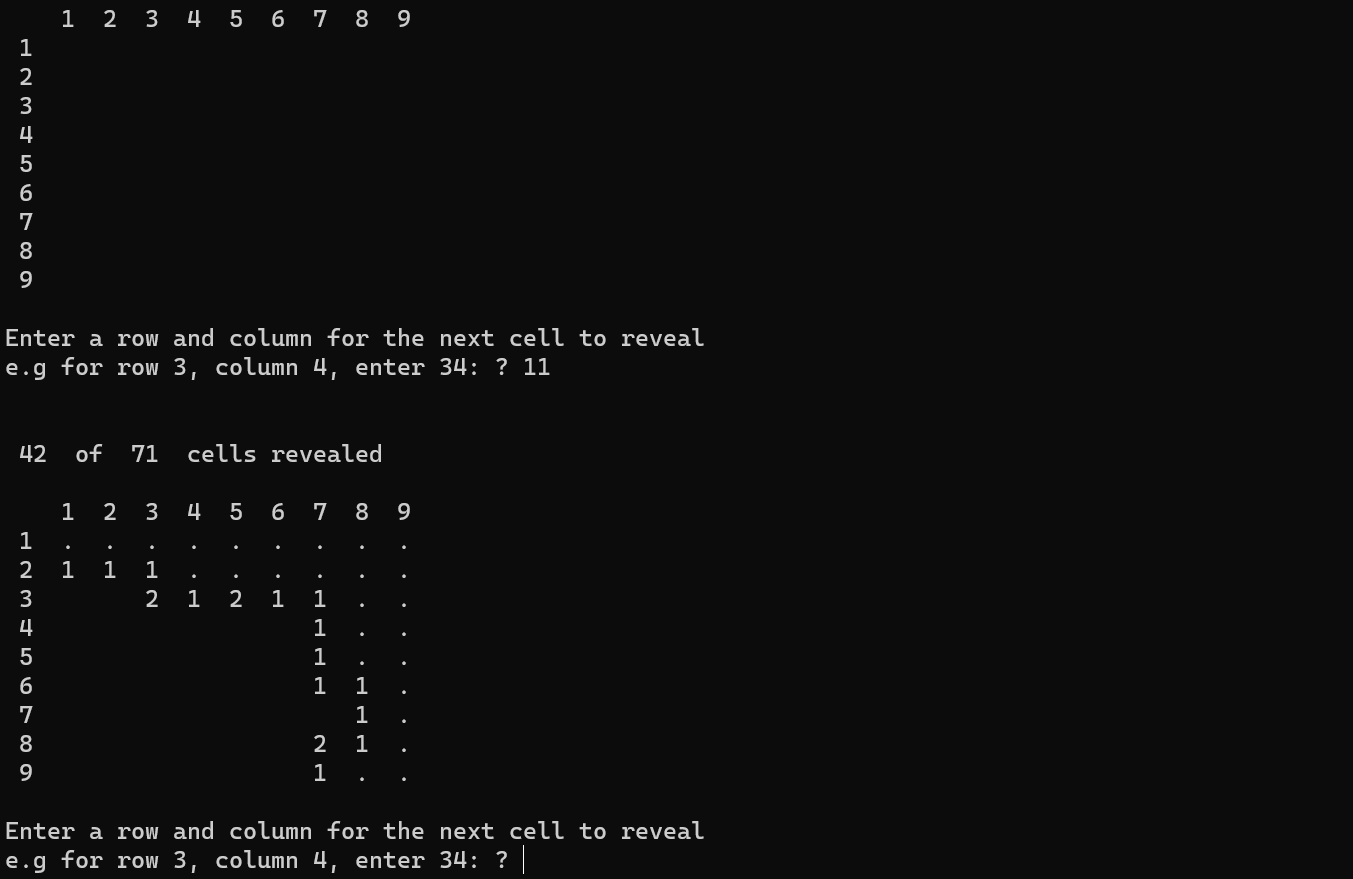
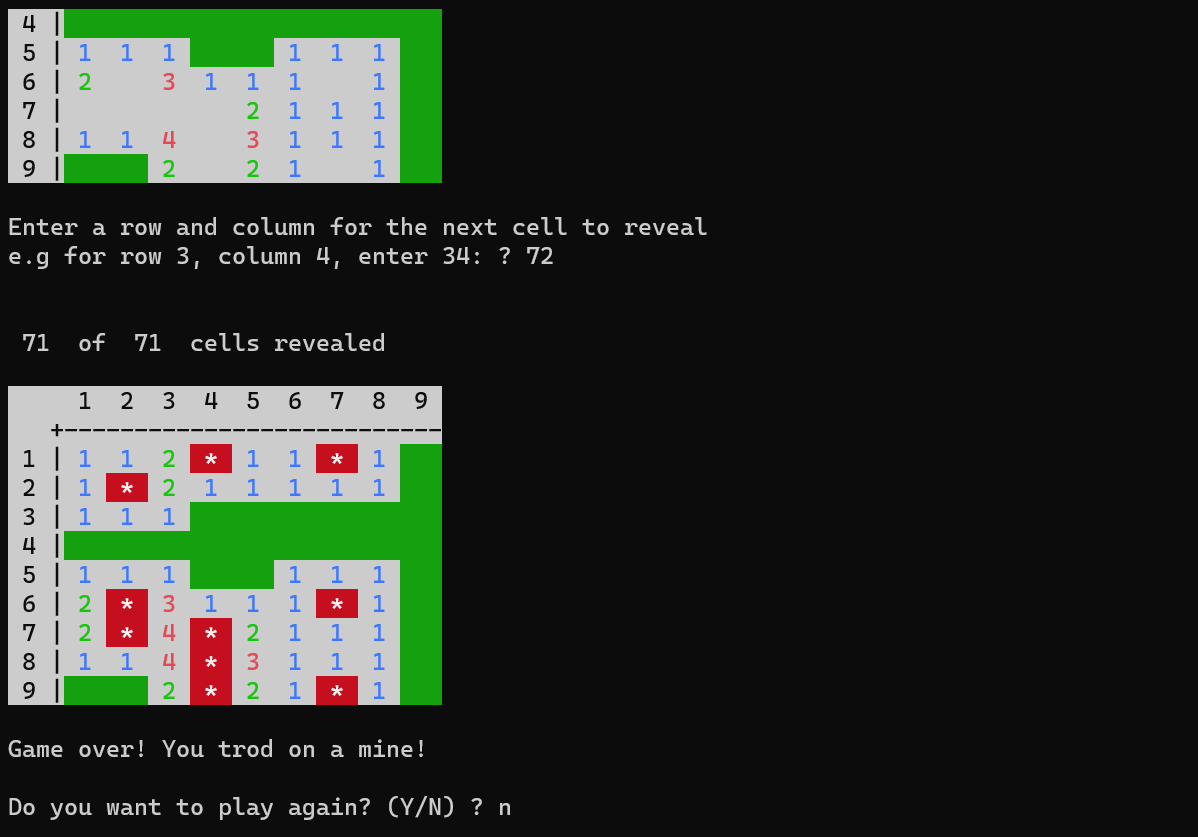
Added version of minesweeper using ANSI codes

Changed region(s): [[0.0, 0.3728, 0.525, 0.9008], [0.0, 0.0, 0.5868, 0.3417], [0.0, 0.9319, 0.525, 0.994]]

diff --git a/Applications/Minesweeper/README.md b/Applications/Minesweeper/README.md
@@ -2,9 +2,10 @@
 
 <img src="https://github.com/davewalker5/RC2014/blob/minesweeper/Applications/Minesweeper/Minesweeper.png" alt="Minesweeper" width="600">
 
-| Filename             | Content                                  |
-| -------------------- | ---------------------------------------- |
-| minesweeper_text.bas | Text-based implementation of Minesweeper |
+| Filename             | Content                                           |
+| -------------------- | ------------------------------------------------- |
+| minesweeper_text.bas | Text-based implementation of Minesweeper          |
+| minesweeper_ansi.bas | Version that uses ANSI escape codes to add colour |
 
 ## References
 
